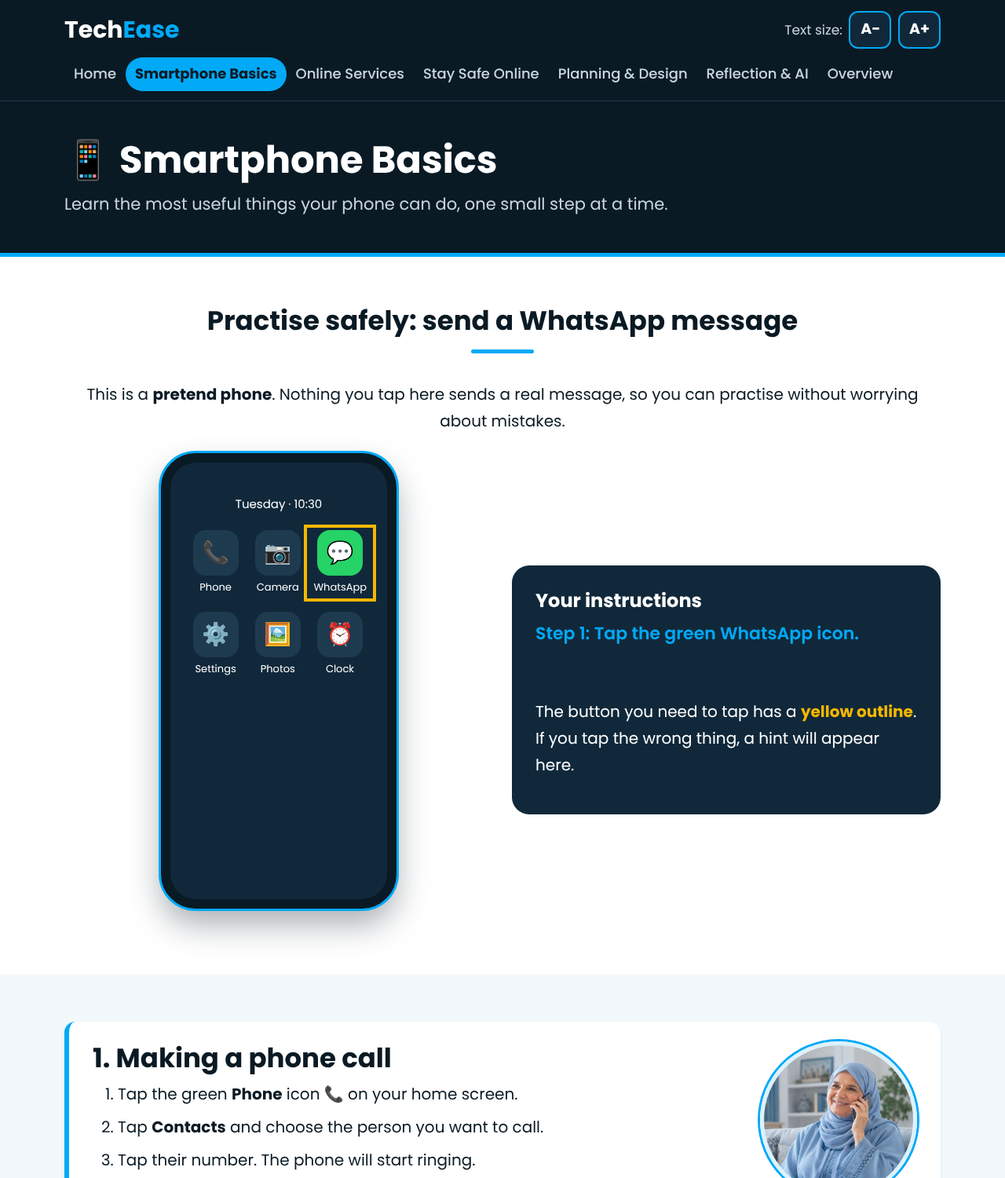
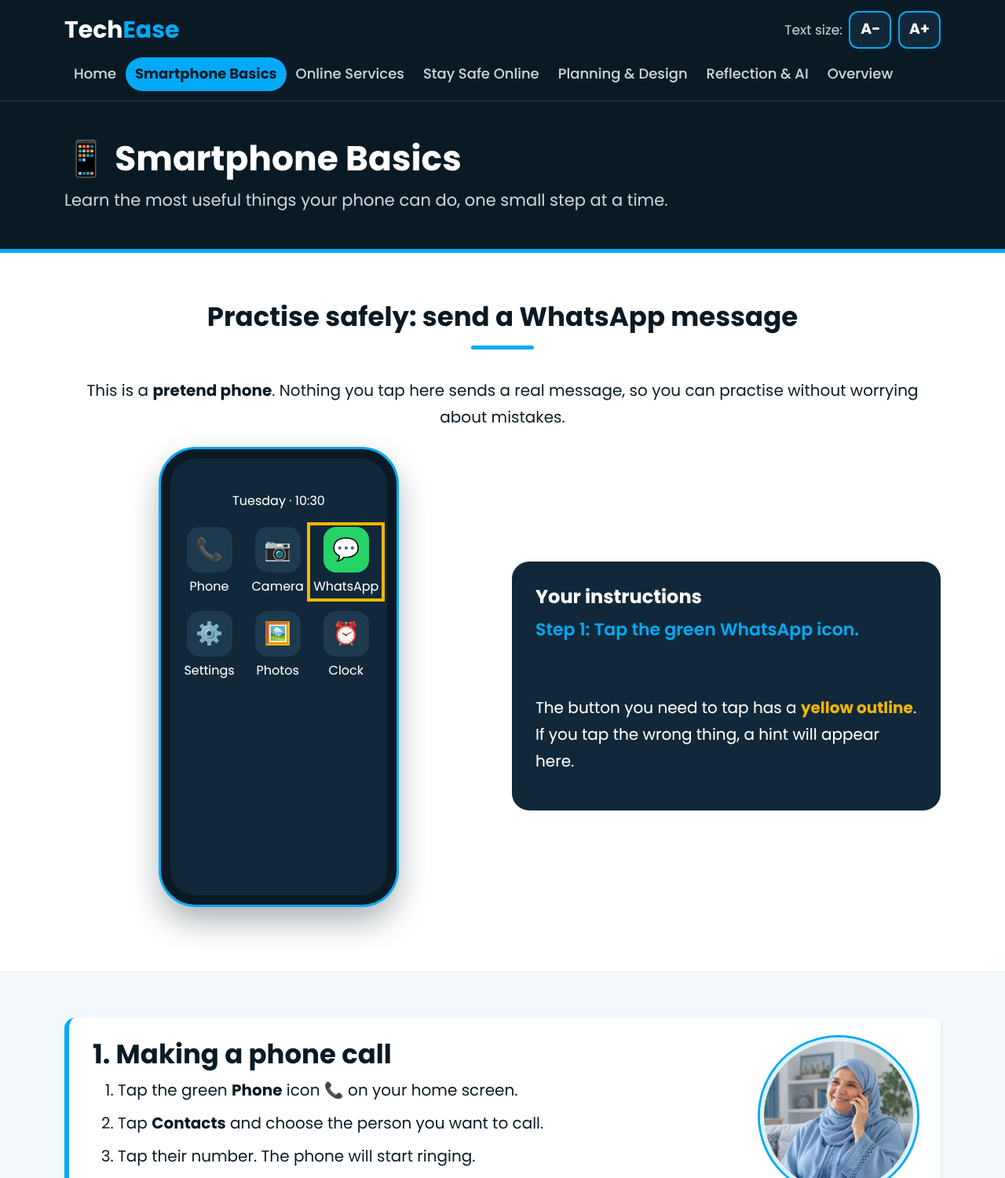
ASd

diff --git a/overview.html b/overview.html
@@ -190,7 +190,7 @@
           <tr><td>Headings</td><td class="fw-bold">Poppins Bold (700)</td>
               <td>H1 44px (54px on the home page) · H2 34px · H3 24px</td><td>Modern, round letter shapes that look friendly and professional</td></tr>
           <tr><td>Body text</td><td>Poppins Regular (400) / SemiBold (600)</td>
-              <td>20px (never below 17px, except the small labels inside the pretend phone screen), line height 1.7</td>
+              <td>20px (never below 17px; the small labels inside the pretend phone are 16px), line height 1.7</td>
               <td>Wide, open letters and extra line spacing make long text easier to read for older eyes</td></tr>
         </tbody>
       </table>
@@ -272,7 +272,7 @@
         <thead class="table-dark"><tr><th>AI tool</th><th>Purpose of usage</th><th>Expected outcome</th></tr></thead>
         <tbody>
           <tr><td>Claude</td><td>Planning, requirements, style guide, content drafting, code help and explanations</td><td>A clear plan and working, well-structured code that we understand</td></tr>
-          <tr><td>ChatGPT</td><td>Creating images, learning Bootstrap, CSS and JavaScript techniques that go beyond the course slides, researching accessibility and privacy, and drafting scam-awareness content</td><td>Realistic photos that suit our audience, example code we can understand and adapt, and a first draft of simple safety tips</td></tr>
+          <tr><td>ChatGPT</td><td>Creating images, learning Bootstrap, CSS and JavaScript techniques that were not taught in our course, researching accessibility and privacy, and drafting scam-awareness content</td><td>Realistic photos that suit our audience, example code we can understand and adapt, and a first draft of simple safety tips</td></tr>
           <tr><td>GitHub Copilot (in VS Code)</td><td>Code suggestions while writing JavaScript: the phone simulator and the email check</td><td>Faster coding, with every suggestion tested and changed by us</td></tr>
         </tbody>
       </table>
@@ -294,19 +294,19 @@
           <tr><td>Claude</td><td>Coding assistance (HTML, CSS, JavaScript)</td>
               <td>"Help us build our 7 TechEase pages using only HTML, CSS, Bootstrap 5 and basic JavaScript. Check our form validation (names at least 3 characters, mobile exactly 8 digits, valid email) and help with the text-size button and the scam quiz." Then: "Help us restyle the site in a dark &amp; modern style with the Poppins font, and help us plan a phone practice simulator."</td>
               <td>Example code, fixes and explanations for our HTML pages, style.css and script.js</td>
-              <td>We compared the code with our course slides and rewrote parts we could not explain, so it uses techniques we understand (for example getElementById, innerHTML and simple if statements). We tested the form with wrong names, numbers and emails, tested the simulator and quiz, and moved all styles into one external CSS file.</td></tr>
+              <td>We compared the code with what we learned in class and rewrote parts we could not explain, so it uses techniques we understand (for example getElementById, innerHTML and simple if statements). We tested the form with wrong names, numbers and emails, tested the simulator and quiz, and moved all styles into one external CSS file.</td></tr>
           <tr><td>Claude</td><td>Content writing &amp; diagrams</td>
               <td>"Write simple step-by-step guide content for seniors, and create a site map, user journey map and low-fidelity wireframes."</td>
               <td>Guide text, tips, quiz questions, site map, journey map, wireframes</td>
               <td>We shortened the guides into one action per step, rewrote them in simple words, removed facts we could not confirm and changed examples to fit Bahrain. We also checked that the site map, journey map and wireframes match our real seven pages.</td></tr>
-          <tr><td>ChatGPT</td><td>Bootstrap 5 components (not covered in the slides)</td>
-              <td>"How do I make nice cards, pill-shaped nav links and badges in Bootstrap 5?"</td>
-              <td>Example code using <code>card</code>, <code>nav-pills</code>, <code>badge</code>, <code>shadow</code> and <code>rounded-4</code></td>
-              <td>We used our own colours and content, and kept only the classes we needed.</td></tr>
-          <tr><td>ChatGPT</td><td>Google Font and rounded / shadowed boxes in CSS</td>
-              <td>"How do I add a Google Font and make boxes with rounded corners and shadows in CSS?"</td>
-              <td>The Poppins font link, and CSS using <code>border-radius</code> and <code>box-shadow</code></td>
-              <td>We chose our own sizes and put all the styles in our external style.css file.</td></tr>
+          <tr><td>ChatGPT</td><td>Bootstrap components and helper classes</td>
+              <td><ul class="mb-0"><li>"How do I make nice cards, pill-shaped nav links and badges in Bootstrap 5?"</li><li>"How do I make coloured message boxes in Bootstrap?"</li><li>"How do I make text bold or smaller with Bootstrap classes?"</li><li>"How do I make form boxes and buttons bigger in Bootstrap?"</li><li>"How do I make cards the same height, and buttons fully rounded?"</li><li>"How do I make a nicer Bootstrap table with a dark header and rows that highlight on hover?"</li><li>"My table makes the page scroll sideways on phones. How do I fix it?"</li></ul></td>
+              <td><ul class="mb-0"><li>Example code using <code>card</code>, <code>nav-pills</code>, <code>badge</code>, <code>shadow</code> and <code>rounded-4</code></li><li>Examples of <code>alert-info</code>, <code>alert-warning</code> and <code>alert-success</code></li><li><code>fw-bold</code>, <code>fw-semibold</code> and <code>fs-6</code></li><li><code>form-control-lg</code> and <code>btn-lg</code></li><li><code>h-100</code> and <code>rounded-pill</code></li><li><code>table-dark</code>, <code>table-hover</code>, <code>table-striped</code> and <code>align-middle</code></li><li>Wrapping the table in <code>&lt;div class="table-responsive"&gt;</code></li></ul></td>
+              <td><ul class="mb-0"><li>We used our own colours and content, and kept only the classes we needed.</li><li>We used them for tips, scam warnings and the registration success message, and changed their colours in style.css to match our palette, with a thick coloured line on the left.</li><li>We used fw-semibold for the success message, fw-bold for table labels and fs-6 for the badges.</li><li>We used them on the registration form and the main buttons so older users can read and tap them easily.</li><li>We used h-100 for the three guide cards on the home page and rounded-pill for the hero buttons and badges.</li><li>We used the same table style on the Overview and Planning &amp; Design pages so all our tables look the same.</li><li>We wrapped every table on the site, so only the table scrolls on a phone, not the whole page.</li></ul></td></tr>
+          <tr><td>ChatGPT</td><td>CSS fonts, shapes and shadows</td>
+              <td><ul class="mb-0"><li>"How do I add a Google Font and make boxes with rounded corners and shadows in CSS?"</li><li>"How do I make a soft, see-through glow around a box?"</li><li>"How do I add more than one ring around a round picture?"</li><li>"How do I make any photo fit a circle without stretching?"</li><li>"How do I draw a phone shape in CSS so content stays inside it?"</li></ul></td>
+              <td><ul class="mb-0"><li>The Poppins font link, and CSS using <code>border-radius</code> and <code>box-shadow</code></li><li><code>box-shadow</code> with an <code>rgba()</code> colour</li><li>Several <code>box-shadow</code> values separated by commas</li><li><code>aspect-ratio: 1 / 1</code> and <code>object-fit: cover</code></li><li>CSS with a fixed width and height, <code>border-radius</code> and <code>overflow: hidden</code></li></ul></td>
+              <td><ul class="mb-0"><li>We chose our own sizes and put all the styles in our external style.css file.</li><li>We used our blue at 25 to 35% for the glow on the hero photo and form box, and our navy at 8% for a soft shadow on the guide boxes.</li><li>We gave the home page photo a blue border, two navy rings and a blue glow, and the smaller photos one thin blue ring.</li><li>We used them with Bootstrap's rounded-circle so all our photos crop neatly, whatever their original shape.</li><li>We set our own size (300 by 580px), used our navy colour for the frame and added a blue ring so the phone stands out on the page.</li></ul></td></tr>
           <tr><td>ChatGPT</td><td>Scam-awareness content</td>
               <td>"Write simple tips for older people about spotting scam messages."</td>
               <td>A list of common scam types and warning signs</td>
@@ -315,134 +315,30 @@
               <td>"Create a realistic photo of a smiling older Bahraini man using his smartphone at home." We wrote a similar prompt for each topic: phone calls, WhatsApp, video calls, photos, government services, online banking, appointments and scams.</td>
               <td>Nine realistic photos (hero.jpg, phone-call.jpg, whatsapp.jpg, video-call.jpg, photo.jpg, government.jpg, banking.jpg, appointment.jpg, scam.jpg), plus the three mood board images</td>
               <td>We chose the images that best matched each topic, cropped them into circles with CSS, wrote our own alt text, and labelled them as AI-generated in the credits.</td></tr>
-          <tr><td>ChatGPT</td><td>Bootstrap alert boxes (not covered in the slides)</td>
-              <td>"How do I make coloured message boxes in Bootstrap?"</td>
-              <td>Examples of <code>alert-info</code>, <code>alert-warning</code> and <code>alert-success</code></td>
-              <td>We used them for tips, scam warnings and the registration success message, and changed their colours in style.css to match our palette, with a thick coloured line on the left.</td></tr>
-          <tr><td>ChatGPT</td><td>Form field focus style</td>
-              <td>"How do I make a form field show a blue border when the user clicks in it?"</td>
-              <td>CSS using the <code>:focus</code> selector</td>
-              <td>We used our primary blue #02A9F7 for the border and added a soft light-blue glow so older users can clearly see which field they are typing in.</td></tr>
-          <tr><td>ChatGPT</td><td>Highlighting the next button in the simulator</td>
-              <td>"How do I highlight a button with a border that doesn't change its size?"</td>
-              <td>An explanation of the CSS <code>outline</code> property</td>
-              <td>We made a <code>tap-here</code> class with a 4px amber outline (#F5B700) and put it on the correct button on each screen so users always know what to tap next.</td></tr>
-          <tr><td>ChatGPT</td><td>Drawing a phone shape in CSS</td>
-              <td>"How do I draw a phone shape in CSS so content stays inside it?"</td>
-              <td>CSS with a fixed width and height, <code>border-radius</code> and <code>overflow: hidden</code></td>
-              <td>We set our own size (300 by 580px), used our navy colour for the frame and added a blue ring so the phone stands out on the page.</td></tr>
-          <tr><td>ChatGPT</td><td>Jump link to the registration form</td>
-              <td>"How do I make a button scroll down to a form on the same page?"</td>
-              <td>A link to an id, for example <code>href="#register"</code></td>
-              <td>We gave the form section the id <code>register</code> and linked both the home page hero button and the Stay Safe Online button to it.</td></tr>
-          <tr><td>ChatGPT</td><td>Meta description tag</td>
-              <td>"What is a meta description and why do websites need one?"</td>
-              <td>An explanation of <code>&lt;meta name="description"&gt;</code> and how search engines show it</td>
-              <td>We wrote our own short description for each of the 7 pages.</td></tr>
-          <tr><td>ChatGPT</td><td>Form hints and browser validation</td>
-              <td>"How do I show example text inside an input, and stop the browser's own error popups so my JavaScript messages show instead?"</td>
-              <td>The <code>placeholder</code> attribute and the <code>novalidate</code> attribute on the form</td>
-              <td>We wrote local examples (e.g. Ahmed, Ali, 33123456) and kept our own JavaScript validation messages with an icon and words.</td></tr>
-          <tr><td>ChatGPT</td><td>Tab icon (favicon)</td>
-              <td>"How do I put a small logo in the browser tab for my website?"</td>
-              <td>The <code>&lt;link rel="icon"&gt;</code> tag in the head</td>
-              <td>We made our own favicon.png in the images folder and linked it in the head of all 7 pages.</td></tr>
-          <tr><td>ChatGPT</td><td>Hover hints on buttons</td>
-              <td>"How do I show a hint when someone hovers over a button?"</td>
-              <td>The <code>title</code> attribute</td>
-              <td>We added clear hints ("Make text smaller" / "Make text bigger") to the A− and A+ buttons, because the letters alone may confuse older users.</td></tr>
-          <tr><td>ChatGPT</td><td>Showing code and small text</td>
-              <td>"How do I show code examples and smaller caption text in HTML?"</td>
-              <td>The <code>&lt;code&gt;</code> and <code>&lt;small&gt;</code> tags</td>
-              <td>We used &lt;code&gt; for password examples and file names, and &lt;small&gt; for the message previews in the phone simulator.</td></tr>
-          <tr><td>ChatGPT</td><td>Fixing CSS that did not work</td>
-              <td>"Why is my CSS not working?"</td>
-              <td>An explanation that Bootstrap's own rules can win over ours, and that <code>!important</code> or a more specific selector fixes it</td>
-              <td>We only used !important where Bootstrap kept overriding us: the card top border, the quiz card border and the badge colours.</td></tr>
-          <tr><td>ChatGPT</td><td>Changing Bootstrap colours</td>
-              <td>"How do I change Bootstrap's button and alert colours to my own colours?"</td>
-              <td>Linking our style.css after Bootstrap and writing new rules for <code>.btn-primary</code> and <code>.alert</code></td>
-              <td>We recoloured buttons, alerts and badges to our palette and used a dark blue button on white boxes so the text stays readable.</td></tr>
-          <tr><td>ChatGPT</td><td>Soft see-through glow</td>
-              <td>"How do I make a soft, see-through glow around a box?"</td>
-              <td><code>box-shadow</code> with an <code>rgba()</code> colour</td>
-              <td>We used our blue at 25 to 35% for the glow on the hero photo and form box, and our navy at 8% for a soft shadow on the guide boxes.</td></tr>
-          <tr><td>ChatGPT</td><td>Rings around round photos</td>
-              <td>"How do I add more than one ring around a round picture?"</td>
-              <td>Several <code>box-shadow</code> values separated by commas</td>
-              <td>We gave the home page photo a blue border, two navy rings and a blue glow, and the smaller photos one thin blue ring.</td></tr>
-          <tr><td>ChatGPT</td><td>Fitting photos into a circle</td>
-              <td>"How do I make any photo fit a circle without stretching?"</td>
-              <td><code>aspect-ratio: 1 / 1</code> and <code>object-fit: cover</code></td>
-              <td>We used them with Bootstrap's rounded-circle so all our photos crop neatly, whatever their original shape.</td></tr>
-          <tr><td>ChatGPT</td><td>Top bar layout</td>
-              <td>"How do I put the logo on the left and buttons on the right, and let them wrap on phones?"</td>
-              <td>Flexbox with <code>justify-content</code>, <code>align-items</code> and <code>flex-wrap</code></td>
-              <td>We used it for our top bar with the logo and the A− / A+ buttons, and tested that it wraps on a phone.</td></tr>
-          <tr><td>ChatGPT</td><td>Colour swatch grid</td>
-              <td>"How do I make boxes that fit as many per row as the screen allows?"</td>
-              <td>CSS grid with <code>repeat(auto-fit, minmax(140px, 1fr))</code></td>
-              <td>We used it for the colour swatches in the style guide, so they show 6 per row on a laptop and 2 on a phone without scrolling sideways.</td></tr>
-          <tr><td>ChatGPT</td><td>Easy-to-tap buttons</td>
-              <td>"How big should buttons be so older people can tap them easily?"</td>
-              <td>Advice to make tap targets large, and the <code>min-height</code> property</td>
-              <td>We set the main buttons to at least 52px high and made the A− / A+ buttons 54 by 48px.</td></tr>
-          <tr><td>ChatGPT</td><td>Responsive columns</td>
-              <td>"How do I make columns side by side on a laptop and stacked on a phone?"</td>
-              <td>Bootstrap grid classes like <code>col-lg-6</code>, <code>col-md-6</code> and <code>col-12</code></td>
-              <td>We chose the column sizes for each section and tested every page at phone, tablet and laptop width.</td></tr>
-          <tr><td>ChatGPT</td><td>Table styling</td>
-              <td>"How do I make a nicer Bootstrap table with a dark header and rows that highlight on hover?"</td>
-              <td><code>table-dark</code>, <code>table-hover</code>, <code>table-striped</code> and <code>align-middle</code></td>
-              <td>We used the same table style on the Overview and Planning &amp; Design pages so all our tables look the same.</td></tr>
-          <tr><td>ChatGPT</td><td>Tables on phones</td>
-              <td>"My table makes the page scroll sideways on phones. How do I fix it?"</td>
-              <td>Wrapping the table in <code>&lt;div class="table-responsive"&gt;</code></td>
-              <td>We wrapped every table on the site, so only the table scrolls on a phone, not the whole page.</td></tr>
-          <tr><td>ChatGPT</td><td>Picture beside text</td>
-              <td>"How do I put a picture on the right of the text on laptops but above it on phones?"</td>
-              <td><code>float-md-end</code>, <code>d-block</code> and <code>mx-auto</code></td>
-              <td>We added <code>ms-md-4</code> and <code>mb-3</code> for space and used it for the round photos in the Smartphone Basics, Online Services and Stay Safe Online guides.</td></tr>
-          <tr><td>ChatGPT</td><td>Hero layout</td>
-              <td>"How do I put text and a picture side by side and centre them vertically?"</td>
-              <td><code>row align-items-center</code> with Bootstrap columns</td>
-              <td>We used it for the home page hero, the workshop section and the phone simulator, and added <code>mt-lg-0</code> to the hero photo column so the spacing is right on every screen.</td></tr>
-          <tr><td>ChatGPT</td><td>Text weight and size helpers</td>
-              <td>"How do I make text bold or smaller with Bootstrap classes?"</td>
-              <td><code>fw-bold</code>, <code>fw-semibold</code> and <code>fs-6</code></td>
-              <td>We used fw-semibold for the success message, fw-bold for table labels and fs-6 for the badges.</td></tr>
-          <tr><td>ChatGPT</td><td>Bigger form and buttons</td>
-              <td>"How do I make form boxes and buttons bigger in Bootstrap?"</td>
-              <td><code>form-control-lg</code> and <code>btn-lg</code></td>
-              <td>We used them on the registration form and the main buttons so older users can read and tap them easily.</td></tr>
-          <tr><td>ChatGPT</td><td>Equal cards and pill shapes</td>
-              <td>"How do I make cards the same height, and buttons fully rounded?"</td>
-              <td><code>h-100</code> and <code>rounded-pill</code></td>
-              <td>We used h-100 for the three guide cards on the home page and rounded-pill for the hero buttons and badges.</td></tr>
-          <tr><td>ChatGPT</td><td>Text size buttons (JavaScript)</td>
-              <td>"How can a button make all the text on the page bigger or smaller?"</td>
-              <td><code>document.body.style.fontSize</code></td>
-              <td>We added a limit of 18 to 28px and saved the choice with localStorage (from our slides) so it stays the same on every page.</td></tr>
-          <tr><td>ChatGPT</td><td>Quiz feedback colour (JavaScript)</td>
-              <td>"How do I turn a message green or red when the answer is right or wrong?"</td>
-              <td><code>style.color</code> inside an if / else</td>
-              <td>We added ✓ and ✗ symbols and words to the message, so the answer is clear even for people who cannot see colours well.</td></tr>
-          <tr><td>ChatGPT</td><td>Clearing the form (JavaScript)</td>
-              <td>"How do I empty a form after it's submitted successfully?"</td>
-              <td>The <code>reset()</code> method on the form</td>
-              <td>We call it after our success message, so the form is ready for the next person.</td></tr>
-          <tr><td>ChatGPT</td><td>Colour contrast research</td>
-              <td>"How do I check if my text colour is readable for people with poor eyesight?"</td>
-              <td>An explanation of WCAG contrast ratios (at least 4.5:1 for normal text)</td>
-              <td>We checked our colours, changed the button text to navy and made the code examples a darker pink so they pass.</td></tr>
-          <tr><td>ChatGPT</td><td>Text size research</td>
-              <td>"What font size is best for elderly users on a website?"</td>
-              <td>Advice to use at least 16 to 18px, with larger text being better</td>
-              <td>We chose 20px for the body text and added the A− / A+ buttons so users can make it bigger.</td></tr>
-          <tr><td>ChatGPT</td><td>Privacy research</td>
-              <td>"Is there a law in Bahrain about collecting personal data in a form?"</td>
-              <td>Information about Bahrain's Personal Data Protection Law (PDPL)</td>
-              <td>We kept the form to name, mobile and email only, and wrote in our Ethics table that a real version would need a privacy policy and consent.</td></tr>
+          <tr><td>ChatGPT</td><td>CSS for easier use</td>
+              <td><ul class="mb-0"><li>"How do I make a form field show a blue border when the user clicks in it?"</li><li>"How do I highlight a button with a border that doesn't change its size?"</li><li>"How big should buttons be so older people can tap them easily?"</li></ul></td>
+              <td><ul class="mb-0"><li>CSS using the <code>:focus</code> selector</li><li>An explanation of the CSS <code>outline</code> property</li><li>Advice to make tap targets large, and the <code>min-height</code> property</li></ul></td>
+              <td><ul class="mb-0"><li>We used our primary blue #02A9F7 for the border and added a soft light-blue glow so older users can clearly see which field they are typing in.</li><li>We made a <code>tap-here</code> class with a 4px amber outline (#F5B700) and put it on the correct button on each screen so users always know what to tap next.</li><li>We set the main buttons to at least 52px high and made the A− / A+ buttons 54 by 48px.</li></ul></td></tr>
+          <tr><td>ChatGPT</td><td>HTML features not taught in our course</td>
+              <td><ul class="mb-0"><li>"How do I make a button scroll down to a form on the same page?"</li><li>"What is a meta description and why do websites need one?"</li><li>"How do I show example text inside an input, and stop the browser's own error popups so my JavaScript messages show instead?"</li><li>"How do I put a small logo in the browser tab for my website?"</li><li>"How do I show a hint when someone hovers over a button?"</li><li>"How do I show code examples and smaller caption text in HTML?"</li></ul></td>
+              <td><ul class="mb-0"><li>A link to an id, for example <code>href="#register"</code></li><li>An explanation of <code>&lt;meta name="description"&gt;</code> and how search engines show it</li><li>The <code>placeholder</code> attribute and the <code>novalidate</code> attribute on the form</li><li>The <code>&lt;link rel="icon"&gt;</code> tag in the head</li><li>The <code>title</code> attribute</li><li>The <code>&lt;code&gt;</code> and <code>&lt;small&gt;</code> tags</li></ul></td>
+              <td><ul class="mb-0"><li>We gave the form section the id <code>register</code> and linked both the home page hero button and the Stay Safe Online button to it.</li><li>We wrote our own short description for each of the 7 pages.</li><li>We wrote local examples (e.g. Ahmed, Ali, 33123456) and kept our own JavaScript validation messages with an icon and words.</li><li>We made our own favicon.png in the images folder and linked it in the head of all 7 pages.</li><li>We added clear hints ("Make text smaller" / "Make text bigger") to the A− and A+ buttons, because the letters alone may confuse older users.</li><li>We used &lt;code&gt; for password examples and file names, and &lt;small&gt; for the message previews in the phone simulator.</li></ul></td></tr>
+          <tr><td>ChatGPT</td><td>CSS layout and Bootstrap conflicts</td>
+              <td><ul class="mb-0"><li>"Why is my CSS not working?"</li><li>"How do I change Bootstrap's button and alert colours to my own colours?"</li><li>"How do I put the logo on the left and buttons on the right, and let them wrap on phones?"</li><li>"How do I make boxes that fit as many per row as the screen allows?"</li></ul></td>
+              <td><ul class="mb-0"><li>An explanation that Bootstrap's own rules can win over ours, and that <code>!important</code> or a more specific selector fixes it</li><li>Linking our style.css after Bootstrap and writing new rules for <code>.btn-primary</code> and <code>.alert</code></li><li>Flexbox with <code>justify-content</code>, <code>align-items</code> and <code>flex-wrap</code></li><li>CSS grid with <code>repeat(auto-fit, minmax(140px, 1fr))</code></li></ul></td>
+              <td><ul class="mb-0"><li>We only used !important where Bootstrap kept overriding us: the card top border, the quiz card border and the badge colours.</li><li>We recoloured buttons, alerts and badges to our palette and used a dark blue button on white boxes so the text stays readable.</li><li>We used it for our top bar with the logo and the A− / A+ buttons, and tested that it wraps on a phone.</li><li>We used it for the colour swatches in the style guide, so they show 6 per row on a laptop and 2 on a phone without scrolling sideways.</li></ul></td></tr>
+          <tr><td>ChatGPT</td><td>Bootstrap page layout</td>
+              <td><ul class="mb-0"><li>"How do I make columns side by side on a laptop and stacked on a phone?"</li><li>"How do I put a picture on the right of the text on laptops but above it on phones?"</li><li>"How do I put text and a picture side by side and centre them vertically?"</li></ul></td>
+              <td><ul class="mb-0"><li>Bootstrap grid classes like <code>col-lg-6</code>, <code>col-md-6</code> and <code>col-12</code></li><li><code>float-md-end</code>, <code>d-block</code> and <code>mx-auto</code></li><li><code>row align-items-center</code> with Bootstrap columns</li></ul></td>
+              <td><ul class="mb-0"><li>We chose the column sizes for each section and tested every page at phone, tablet and laptop width.</li><li>We added <code>ms-md-4</code> and <code>mb-3</code> for space and used it for the round photos in the Smartphone Basics, Online Services and Stay Safe Online guides.</li><li>We used it for the home page hero, the workshop section and the phone simulator, and added <code>mt-lg-0</code> to the hero photo column so the spacing is right on every screen.</li></ul></td></tr>
+          <tr><td>ChatGPT</td><td>JavaScript not taught in our course</td>
+              <td><ul class="mb-0"><li>"How can a button make all the text on the page bigger or smaller?"</li><li>"How do I turn a message green or red when the answer is right or wrong?"</li><li>"How do I empty a form after it's submitted successfully?"</li></ul></td>
+              <td><ul class="mb-0"><li><code>document.body.style.fontSize</code></li><li><code>style.color</code> inside an if / else</li><li>The <code>reset()</code> method on the form</li></ul></td>
+              <td><ul class="mb-0"><li>We added a limit of 18 to 28px and saved the choice with localStorage (which we learned in class) so it stays the same on every page.</li><li>We added ✓ and ✗ symbols and words to the message, so the answer is clear even for people who cannot see colours well.</li><li>We call it after our success message, so the form is ready for the next person.</li></ul></td></tr>
+          <tr><td>ChatGPT</td><td>Accessibility and privacy research</td>
+              <td><ul class="mb-0"><li>"How do I check if my text colour is readable for people with poor eyesight?"</li><li>"What font size is best for elderly users on a website?"</li><li>"Is there a law in Bahrain about collecting personal data in a form?"</li></ul></td>
+              <td><ul class="mb-0"><li>An explanation of WCAG contrast ratios (at least 4.5:1 for normal text)</li><li>Advice to use at least 16 to 18px, with larger text being better</li><li>Information about Bahrain's Personal Data Protection Law (PDPL)</li></ul></td>
+              <td><ul class="mb-0"><li>We checked our colours, changed the button text to navy and made the code examples a darker pink so they pass.</li><li>We chose 20px for the body text and added the A− / A+ buttons so users can make it bigger.</li><li>We kept the form to name, mobile and email only, and wrote in our Ethics table that a real version would need a privacy policy and consent.</li></ul></td></tr>
           <tr><td>ChatGPT</td><td>Final review of our website against the rubric</td>
               <td>"Act as a strict lecturer and mark our website against this rubric and the project brief. Quote the evidence for each mark and list every problem with a fix." (shortened)</td>
               <td>A marked review with a score for each rubric item and a list of problems</td>

diff --git a/reflection-ai-report.html b/reflection-ai-report.html
@@ -66,7 +66,7 @@
       <p>We used AI tools throughout the project, as required. Claude helped us plan the requirements, site map
          and user journey, suggested a style guide, checked our colour contrast and helped us write and explain
          parts of the HTML, CSS and JavaScript. ChatGPT helped us learn Bootstrap, CSS and JavaScript
-         techniques that went beyond our course slides, gave us a first draft of the scam tips, and created all of the photos on our pages. GitHub Copilot
+         techniques not taught in our course, gave us a first draft of the scam tips, and created all of the photos on our pages. GitHub Copilot
          suggested code in VS Code for the phone simulator and the email check.</p>
       <p>We did not accept AI output without checking it. For example, the AI contrast check showed that our
          first button colour failed accessibility standards, so we changed it. We also rewrote content in our own
@@ -76,10 +76,10 @@
 
       <h2>Lessons learned</h2>
       <p>We learned that planning saves time. Creating the wireframes and style guide first meant the coding
-         stage was much faster and the pages looked consistent. We also learned practical skills: how to validate
-         a form with JavaScript, how to use the Bootstrap grid to make pages responsive, and how to use one external
-         CSS file so that a single change updates every page. Finally, we learned that AI is a helpful assistant
-         but not a replacement for our own judgement. It can make mistakes, so we must always review, test and
+         stage was much faster and the pages looked consistent. We also learned practical skills. For example, a
+         name of three spaces first passed our form check, so we learned to use trim() before checking the length.
+         We learned the Bootstrap grid and that one external CSS file updates every page. Finally, AI is a helpful
+         assistant but not a replacement for our own judgement. It can make mistakes, so we must always review, test and
          understand the code and content it produces.</p>
 
       <h2>Team collaboration experience</h2>
@@ -87,12 +87,12 @@
          touch through a WhatsApp group and held regular calls on Discord to plan and review our progress. We shared
          our files by sending ZIP folders in the chat. Our biggest challenge was agreeing on the project: we kept
          arguing about what the brief really required and which parts mattered most. We solved this by listing the
-         pros and cons of each idea against the brief, and found that TechEase matched its focus on real-world value. A technical challenge was Bootstrap overriding our CSS, which we fixed by loading our stylesheet after Bootstrap.
+         pros and cons of each idea against the brief, and found that TechEase matched its focus on real-world value. A technical challenge was Bootstrap overriding our colours; we fixed it by loading our stylesheet after Bootstrap.
          Working as a team taught us the importance of clear deadlines and of checking each other's work. If we did
          this project again, we would use GitHub from the first day instead of sending ZIP files, agree on file names
          and a shared folder structure early, and test on real phones earlier.</p>
 
-      <p class="caption mt-4">Word count: 597 words (not counting headings)</p>
+      <p class="caption mt-4">Word count: 596 words (not counting headings)</p>
     </div>
   </div>
 

diff --git a/subtopic2.html b/subtopic2.html
@@ -94,7 +94,7 @@
 
       <div class="guide shadow-sm">
         <img src="images/banking.jpg" class="rounded-circle circle-small d-block mx-auto float-md-end ms-md-4 mb-3" alt="An older man using a bank cash machine">
-        <h2>2. Online banking safely</h2>
+        <h2>2. Banking safely</h2>
         <ol>
           <li>Download your bank's app <strong>only</strong> from the official App Store or Google Play.</li>
           <li>Log in with your password, fingerprint or face ID.</li>
@@ -102,6 +102,7 @@
           <li>Tap <strong>Pay bills</strong> or <strong>Transfer</strong> and follow the steps.</li>
           <li>Always <strong>log out</strong> when you finish.</li>
         </ol>
+        <div class="alert alert-info"><strong>Tip:</strong> At a cash machine, cover the keypad with your hand when you type your PIN, and never accept help from strangers.</div>
         <div class="clear"></div>
       </div>
 

diff --git a/css/style.css b/css/style.css
@@ -307,13 +307,13 @@ a:hover {
 
 .home-screen {
   background-color: #10283A;
-  padding: 40px 18px;
+  padding: 40px 6px;
 }
 
 .home-screen p {
   color: #ffffff;
   text-align: center;
-  font-size: 15px;
+  font-size: 16px;
 }
 
 .app-grid {
@@ -328,8 +328,9 @@ a:hover {
   border: none;
   color: #ffffff;
   font-family: "Poppins", Arial, sans-serif;
-  font-size: 13px;
+  font-size: 16px;
   text-align: center;
+  padding: 0;
 }
 
 .app span {
@@ -362,7 +363,7 @@ a:hover {
 .chat-row small {
   display: block;
   color: #667;
-  font-size: 14px;
+  font-size: 16px;
 }
 
 .chat-body {
@@ -402,7 +403,7 @@ a:hover {
   border: 2px solid #ccc;
   border-radius: 22px;
   font-family: "Poppins", Arial, sans-serif;
-  font-size: 15px;
+  font-size: 16px;
   text-align: left;
   padding: 8px 14px;
   color: #5F6B73;

diff --git a/planning-design.html b/planning-design.html
@@ -212,7 +212,7 @@
           <tr><td>Headings</td><td class="fw-bold">Poppins Bold (700)</td>
               <td>H1 44px (54px on the home page) · H2 34px · H3 24px</td><td>Modern, round letter shapes that look friendly and professional</td></tr>
           <tr><td>Body text</td><td>Poppins Regular (400) / SemiBold (600)</td>
-              <td>20px (never below 17px, except the small labels inside the pretend phone screen), line height 1.7</td>
+              <td>20px (never below 17px; the small labels inside the pretend phone are 16px), line height 1.7</td>
               <td>Wide, open letters and extra line spacing make long text easier to read for older eyes</td></tr>
         </tbody>
       </table>
